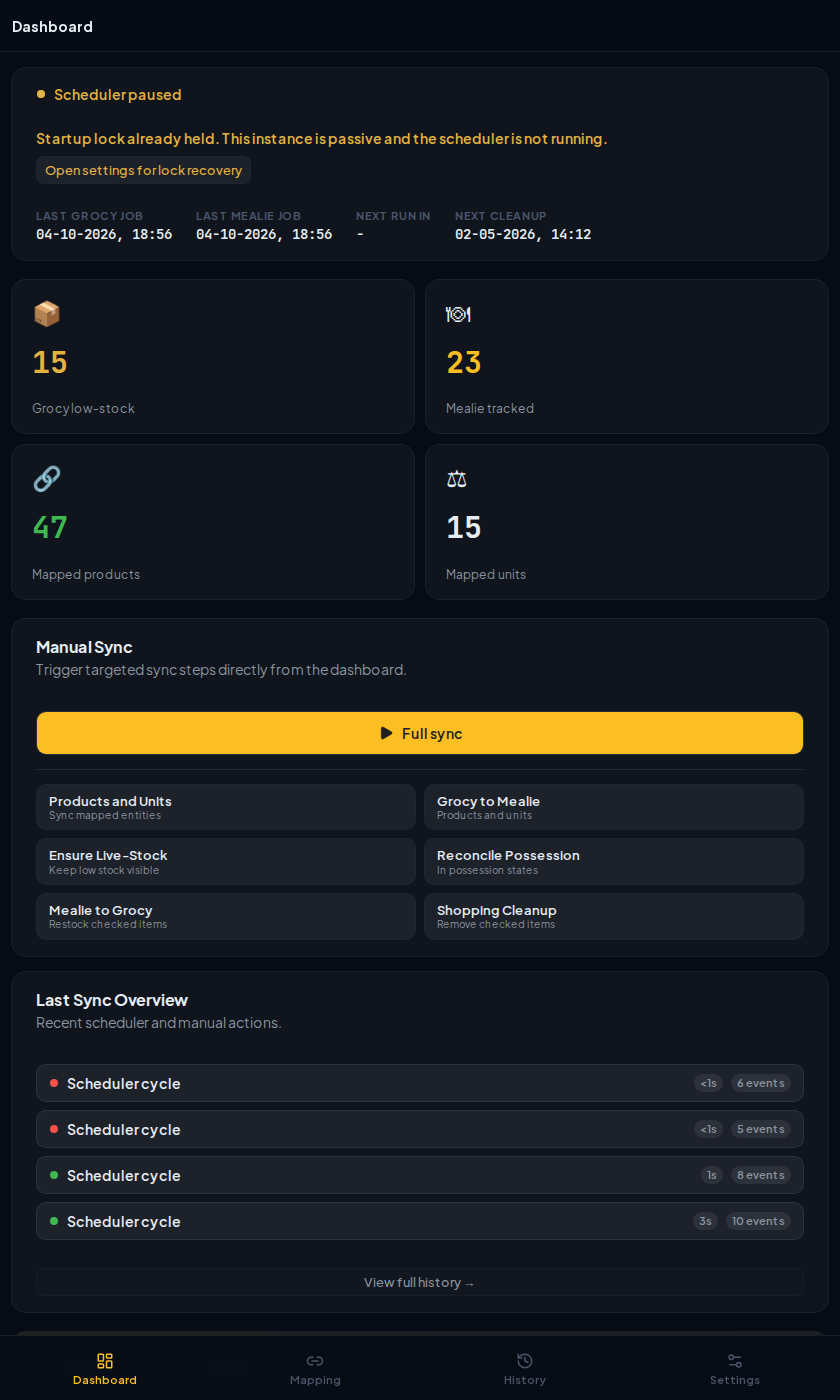
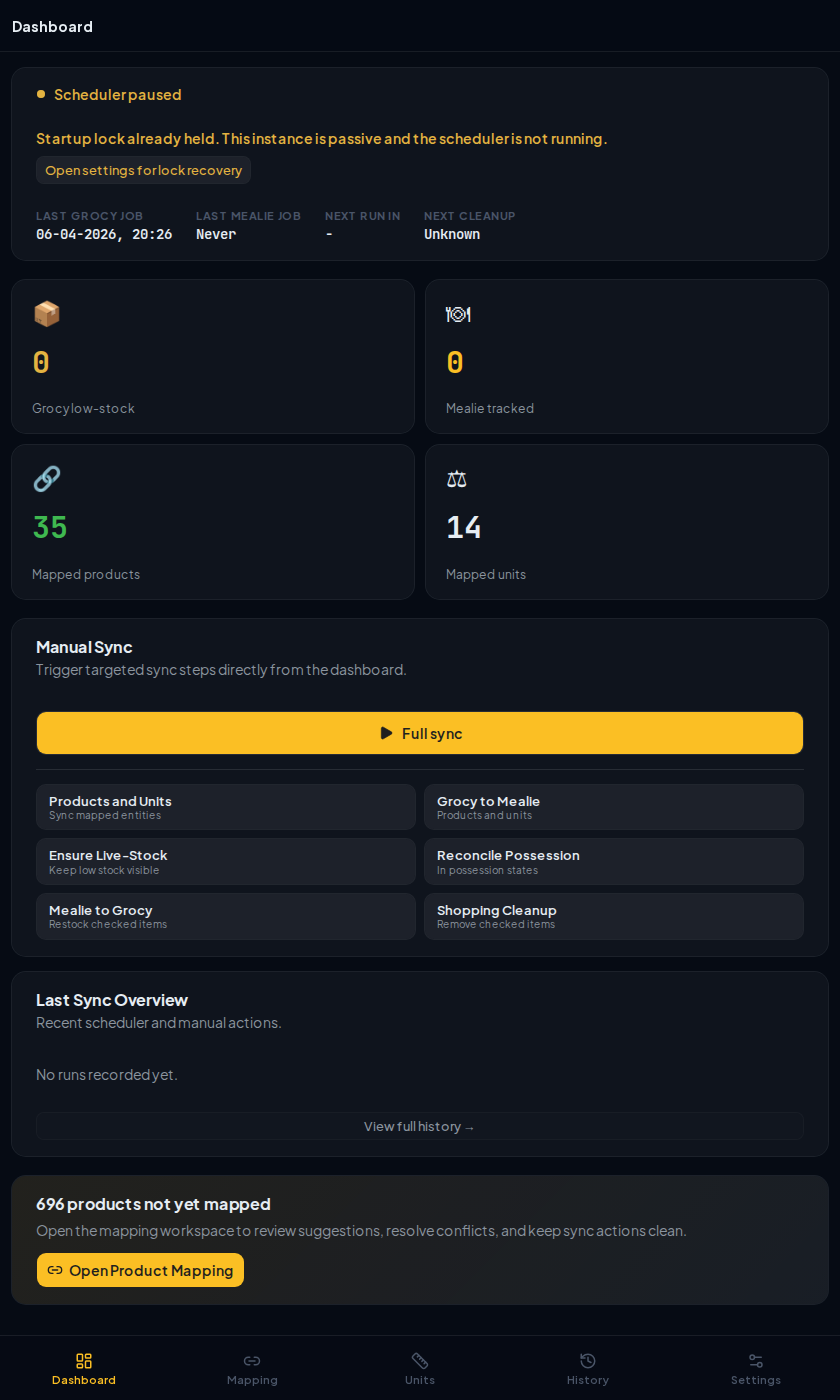
chore: release v1.18.0

diff --git a/CHANGELOG.md b/CHANGELOG.md
@@ -2,6 +2,28 @@
 
 All notable changes to this project are documented in this file.
 
+## [1.18.0] - 2026-10-06
+
+This minor release adds a **Units & Conversions** page for setting up quantity conversions without an external script (#57). Pick metric or US customary presets from a searchable library, preview what will change, and import them into Grocy, with matching units configured in Mealie through its native standardization. It also requires login on every web page when app authentication is enabled.
+
+### Added
+
+- A conversion library with metric and US customary presets, search, dimension filters and individual selection. An import preview lists the units, Mealie standardization, unit mappings and Grocy conversions that will be created before anything is written.
+- Existing units and equivalent conversions are reused, missing units are only created after approval, and ambiguous names or conflicting conversions (direct, reverse or indirect) are flagged before import. Importing the same presets again changes nothing.
+- An overview of installed conversions with their inverse relationships, plus management of custom global and product-specific conversions, such as `1 bottle = 32 US fluid ounces` for one product.
+- A **Grocy only** import option, which also works while Mealie is offline. Shared setup with Mealie requires Mealie 3.13 or later.
+- The library, preview and import workflow through REST and MCP: `conversions.library.list`, `conversions.library.preview` and `conversions.library.import`, plus the `gms://conversions/library` and `gms://conversions/installed` resources. The MCP unit tools accept paired `standardQuantity` and `standardUnit` fields.
+
+### Changed
+
+- Editing a unit keeps its Mealie standardization.
+- Conversion imports run under the sync lock and are recorded in History. An import that stops partway keeps its completed steps and can be retried from a fresh preview.
+- Updated `@modelcontextprotocol/sdk`, `sharp`, `proxy-addr` and `source-map-js` to resolve security advisories.
+
+### Fixed
+
+- With app authentication enabled, the Mapping, History, Settings and API endpoints pages now require login, like the dashboard already did.
+
 ## [1.17.0] - 2026-10-04
 
 This minor release makes History show the changes that happened to each product, including scanner actions, with their quantity, source and reason. Routine checks stay out of the activity feed, while errors and completed writes remain visible even when a later sync step fails.
@@ -392,6 +414,7 @@ This release promotes the current base to `1.0.0`. Compared with `v0.0.1`, the p
 
 - First tagged preview release.
 
+[1.18.0]: https://github.com/HarmEllis/grocy-mealie-sync/compare/v1.17.0...v1.18.0
 [1.17.0]: https://github.com/HarmEllis/grocy-mealie-sync/compare/v1.16.0...v1.17.0
 [1.16.0]: https://github.com/HarmEllis/grocy-mealie-sync/compare/v1.15.0...v1.16.0
 [1.15.0]: https://github.com/HarmEllis/grocy-mealie-sync/compare/v1.14.2...v1.15.0
